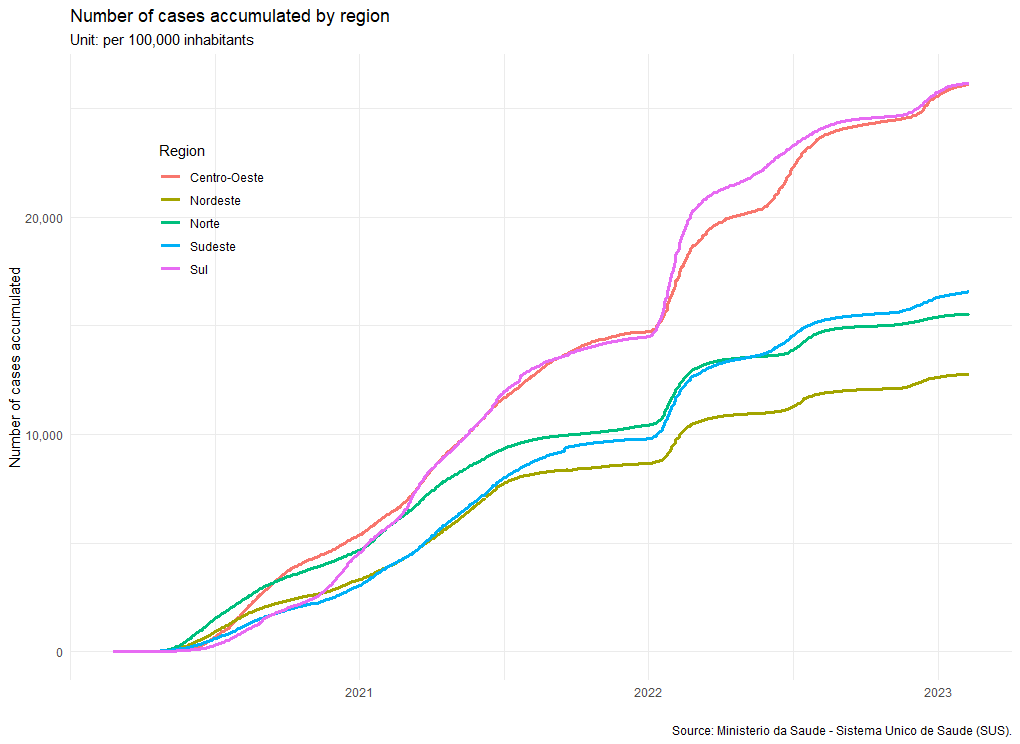
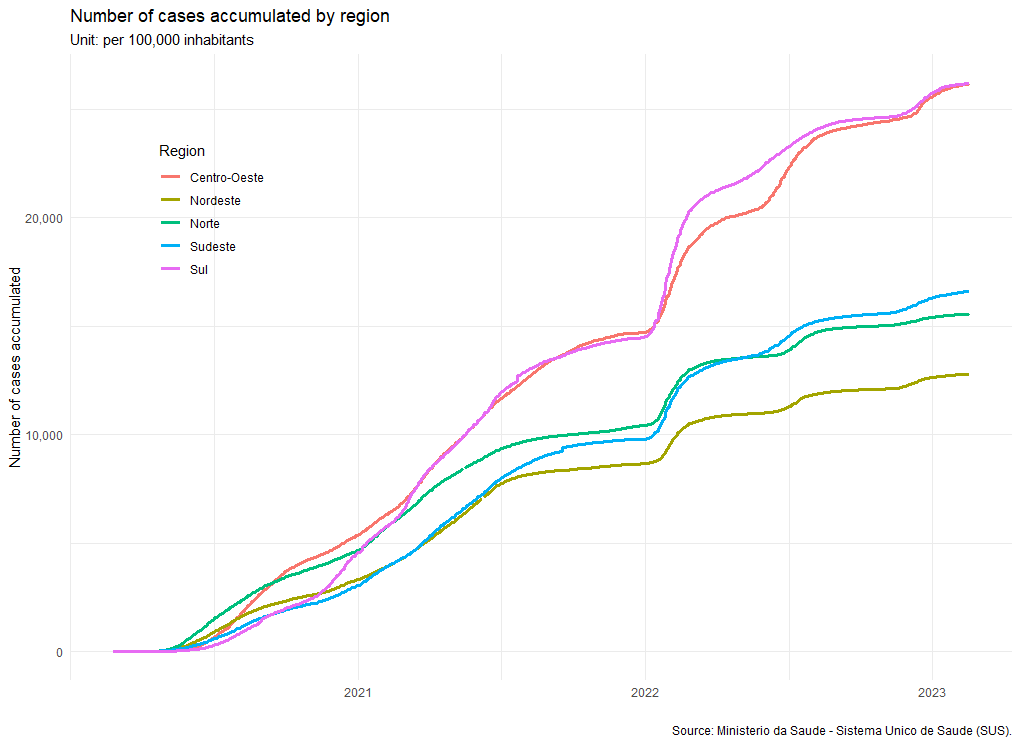
Update README file

diff --git a/README.md b/README.md
@@ -115,7 +115,7 @@ Data source: [Ministerio da Saude - Sistema Unico de Saude
 
 Below is the graph for the number of cases accumulated per 100,000
 inhabitants for each of the five macro-regions in Brazil, information
-until the 2023-02-10.
+until the 2023-02-17.
 
 <img src="man/figures/cases100.png" width="100%" />  
 
@@ -138,7 +138,7 @@ Data source: [Ministerio da Saude - Sistema Unico de Saude
 
 The graph below shows the number of accumulated deaths per 100,000
 inhabitants for each of Brazil’s five macro-regions, information until
-the 2023-02-10.
+the 2023-02-17.
 
 <img src="man/figures/deaths100.png" width="100%" />  
 
